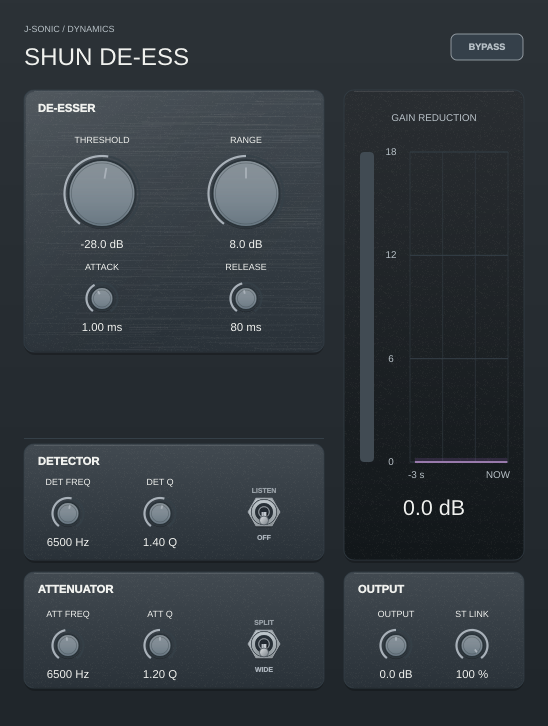
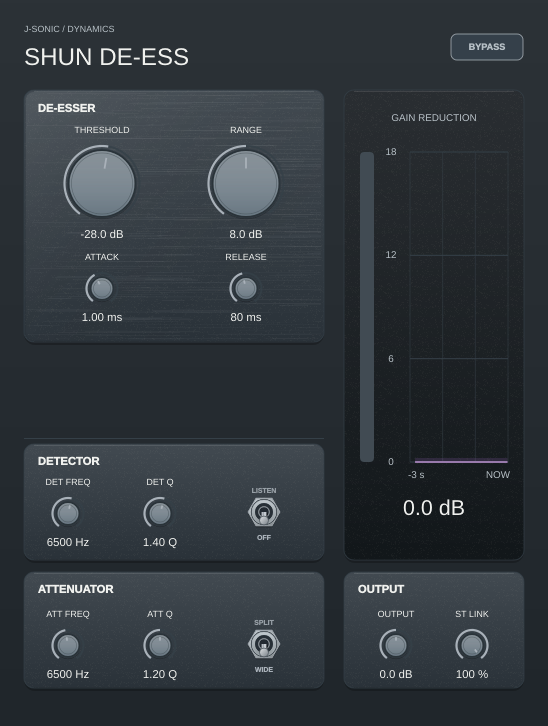
Raise SHUN compressor controls by 10px

Changed region(s): [[0.3723, 0.1515, 0.5274, 0.4545], [0.0931, 0.1515, 0.2482, 0.4545]]

diff --git a/projects/ShunDeEss/Source/PluginEditor.cpp b/projects/ShunDeEss/Source/PluginEditor.cpp
@@ -438,7 +438,7 @@ void ShunDeEssEditor::paint (juce::Graphics& g)
     g.drawText ("SHUN DE-ESS", 24, 38, 410, 38, juce::Justification::centredLeft);
     g.saveState();
     g.addTransform (juce::AffineTransform::translation (0.0f, -50.0f));
-    drawBrushedMetalPanel (g, { 24, 140, 300, 262 }, 10, theme.card, theme.grid);
+    drawBrushedMetalPanel (g, { 24, 140, 300, 252 }, 10, theme.card, theme.grid);
     drawAnalogPanel (g, { 24, 494, 300, 116 }, 10, theme.card, theme.grid);
     drawAnalogPanel (g, { 24, 622, 300, 116 }, 10, theme.card, theme.grid);
     drawAnalogPanel (g, { 344, 622, 180, 116 }, 10, theme.card, theme.grid);
@@ -536,10 +536,10 @@ void ShunDeEssEditor::resized()
         sliders[index].setTextBoxStyle (juce::Slider::TextBoxBelow, false, width, 17);
         sliders[index].setBounds (x, up (y + 20), width, height);
     };
-    place (4, 38, 208, 128, 108);
-    place (5, 168, 208, 156, 108);
-    place (6, 64, 335, 76, 64);
-    place (7, 208, 335, 76, 64);
+    place (4, 38, 198, 128, 108);
+    place (5, 168, 198, 156, 108);
+    place (6, 64, 325, 76, 64);
+    place (7, 208, 325, 76, 64);
     place (0, 30, 550, 76, 64);
     place (1, 122, 550, 76, 64);
     place (2, 30, 682, 76, 64);

diff --git a/projects/ShunDeEss/DEVELOPMENT_LOG.md b/projects/ShunDeEss/DEVELOPMENT_LOG.md
@@ -66,3 +66,7 @@
 ### 2026-10-20 — additional Compressor panel reduction
 - Shortened the Compressor panel by another 30 px with the other panels fixed.
   The gap before Detector is now 92 px; Attack and Release retain their position.
+
+### 2026-10-20 — main control spacing
+- Moved Threshold, Range, Attack, and Release up by 10 px and shortened the
+  Compressor panel by 10 px. The gap before Detector is now 102 px.
